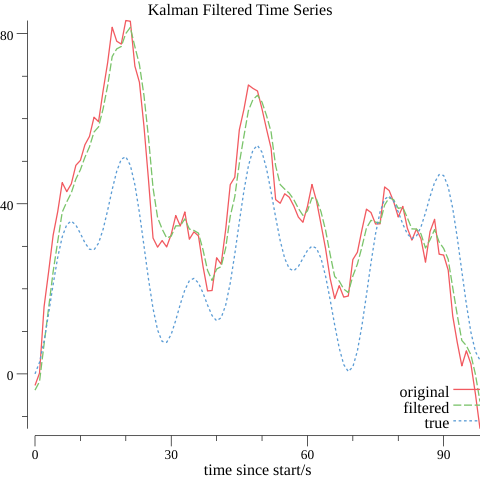
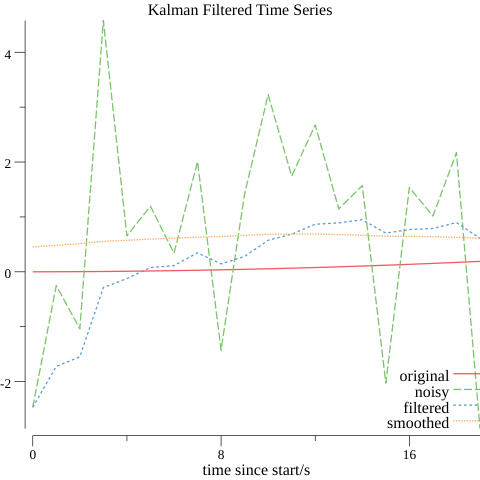
update example

diff --git a/examples/time-series-example/main.go b/examples/time-series-example/main.go
@@ -2,7 +2,6 @@ package main
 
 import (
 	"log"
-	"math"
 	"math/rand"
 	"time"
 
@@ -14,55 +13,115 @@ import (
 	"gonum.org/v1/plot/vg"
 )
 
+const processVariance = 0.01
+const initialVariance = 2.0
+const observationVariance = 2.0
+
 func main() {
-	noisy, original := generateValues(100)
-	startTime := time.Time{}
-	model := models.NewSimpleModel(startTime, noisy[0], models.SimpleModelConfig{
-		InitialVariance:     1.0,
-		ProcessVariance:     1.0,
-		ObservationVariance: 2.0,
+	noisy, original := generateValues(20)
+	
+	model := models.NewSimpleModel(time.Time{}, noisy[0], models.SimpleModelConfig{
+		InitialVariance:     initialVariance,
+		ProcessVariance:     processVariance,
+		ObservationVariance: observationVariance,
 	})
-	filter := kalman.NewKalmanFilter(model)
 
-	var hiddenXYs, originalXYs, filteredXYs plotter.XYs
+	smoothed, err := kalmanSmoother(model, noisy)
+	if err != nil {
+		log.Fatalf("failed to smooth: %v", err)
+	}
 
-	t := startTime
-	for i, v := range noisy[1:] {
-		t = t.Add(time.Second)
-		filter.Update(t, model.NewMeasurement(v))
+	filtered, err := kalmanFilter(model, noisy)
+	if err != nil {
+		log.Fatalf("failed to filter: %v", err)
+	}
 
+
+	var originalXYs, noisyXYs, filteredXYs, smoothedXYs plotter.XYs
+	for i := 0; i<len(noisy); i++ {
 		filteredXYs = append(filteredXYs, plotter.XY{
 			X: float64(i),
-			Y: model.Value(filter.State()),
+			Y: filtered[i],
+		})
+		noisyXYs = append(noisyXYs, plotter.XY{
+			X: float64(i),
+			Y: noisy[i],
+		})
+		smoothedXYs = append(smoothedXYs, plotter.XY{
+			X: float64(i),
+			Y: smoothed[i],
 		})
 		originalXYs = append(originalXYs, plotter.XY{
-			X: float64(i),
-			Y: v,
-		})
-		hiddenXYs = append(hiddenXYs, plotter.XY{
 			X: float64(i),
 			Y: original[i],
 		})
 	}
 
-	err := writePlotPNG("plot.png", "Kalman Filtered Time Series", "time since start/s", "",
+	err = writePlotPNG("plot.png", "Kalman Filtered Time Series", "time since start/s", "",
 		plottableValues{
 			label:  "original",
 			values: originalXYs,
+		},
+		plottableValues{
+			label:  "noisy",
+			values: noisyXYs,
 		},
 		plottableValues{
 			label:  "filtered",
 			values: filteredXYs,
 		},
 		plottableValues{
-			label:  "true",
-			values: hiddenXYs,
+			label:  "smoothed",
+			values: smoothedXYs,
 		},
 	)
 	if err != nil {
 		log.Fatalf("failed: %v", err)
 	}
 }
+
+func kalmanFilter(model *models.SimpleModel, values []float64) ([]float64, error) {
+	filter := kalman.NewKalmanFilter(model)
+
+	var t time.Time
+	result := make([]float64, len(values))
+
+	for i, v := range values {
+		t = t.Add(time.Second)
+
+		err := filter.Update(t, model.NewMeasurement(v))
+		if err != nil {
+			return nil, err
+		}
+
+		result[i] = model.Value(filter.State())
+	}
+
+	return result, nil
+}
+
+func kalmanSmoother(model *models.SimpleModel, values []float64) ([]float64, error) {
+	var t time.Time
+
+	mm := make([]*kalman.MeasurementAtTime, len(values))
+	for i, v := range values {
+		t = t.Add(time.Second)
+		mm[i] = kalman.NewMeasurementAtTime(t, model.NewMeasurement(v))
+	}
+
+	states, err := kalman.NewKalmanSmoother(model).Smooth(mm...)
+	if err != nil {
+		return nil, err
+	}
+
+	result := make([]float64, len(values))
+	for i, s := range states {
+		result[i] = model.Value(s.State)
+	}
+	
+	return result, nil
+}
+
 
 type plottableValues struct {
 	label  string
@@ -96,18 +155,17 @@ func generateValues(n int) (noisy, truth []float64) {
 	noisy = make([]float64, 0)
 	truth = make([]float64, 0)
 
-	variance := 4.0
-	var lastNoisy, lastTruth float64
+	var xNoisy, xTruth float64
 
 	for i := 0; i < n; i++ {
-		delta := 5*math.Sin(math.Pi*float64(i)/7) + 3*math.Sin(math.Pi*float64(i)/17.0)
-		noise := variance * rand.NormFloat64()
+		delta := float64(i) * 0.001
+		noise := observationVariance * rand.NormFloat64()
 
-		lastNoisy += delta + noise
-		lastTruth += delta
+		xTruth += delta
+		xNoisy = xTruth + noise
 
-		noisy = append(noisy, lastNoisy)
-		truth = append(truth, lastTruth)
+		noisy = append(noisy, xNoisy)
+		truth = append(truth, xTruth)
 	}
 
 	return noisy, truth
